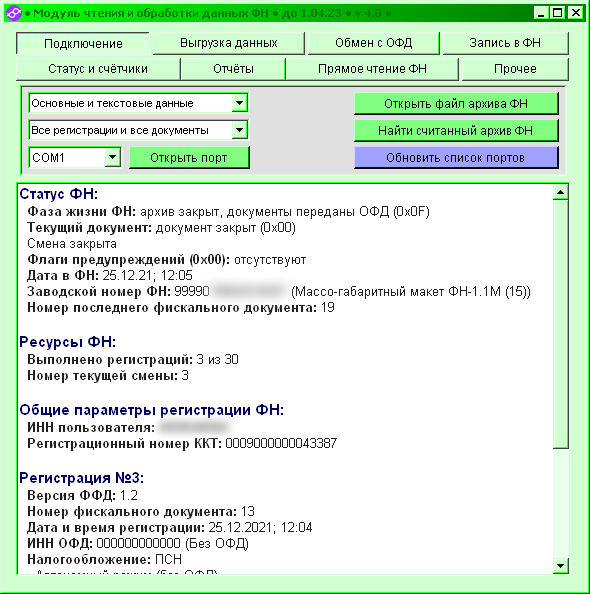
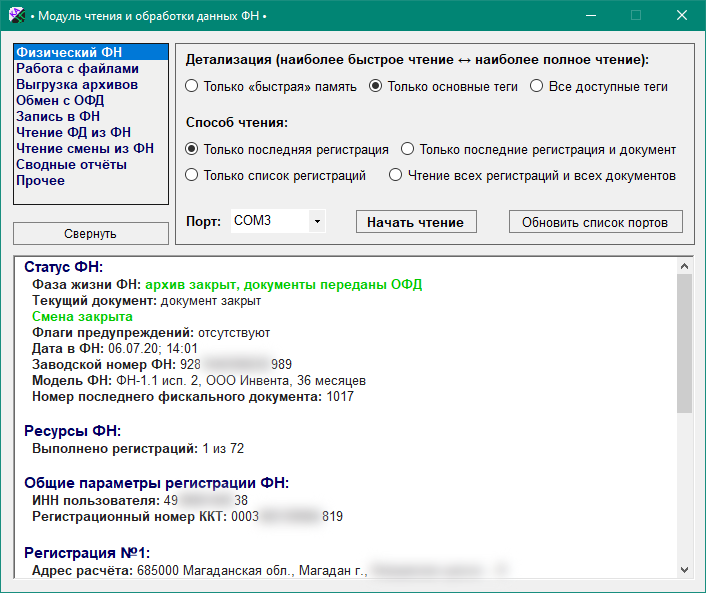
Documentation update from 25.09.25

diff --git a/docs/quick.md b/docs/quick.md
@@ -26,12 +26,11 @@
 
 ## Начальные действия, общие для всех операций
 
-1. На вкладке **`Подключение`** выберите COM-порт, к которому подключён ФН.
+1. На вкладке **`Физический ФН`** выберите COM-порт, к которому подключён ФН.
     - Если нужный порт появился в системе после запуска приложения, воспользуйтесь кнопкой `Обновить список портов`.
 
-2. Нажмите кнопку `Открыть порт`. Будет запрошен и отображён полный статус накопителя.
-    - При необходимости статус ФН может быть сохранён в файл или отправлен на печать с помощью соответствующих кнопок
-на вкладке **`Статус и счётчики`**.
+2. Нажмите кнопку `Начать чтение`. Будет запрошен и отображён полный статус накопителя.
+    - При необходимости статус ФН может быть сохранён в файл или отправлен на печать с помощью контекстного меню поля статуса.
 
 ---
 
